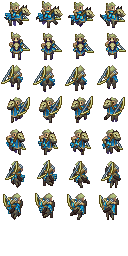
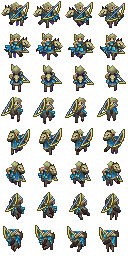
Fixed cropping bounds error that left out left-moving sprites from output

diff --git a/splitter.py b/splitter.py
@@ -70,7 +70,7 @@ CROP = {
         MOVE: {
             LARGE: {
                 SIZE : (256,256),
-                'start': (2,70),
+                'start': (2,38),
                 'sub'  : (32,32),
                 },
             
@@ -92,7 +92,7 @@ CROP = {
             
         MOVE: {
             SIZE : (256,256),
-            'start': (2,70),
+            'start': (2,38),
             'sub'  : (32,32),
             },            
         },
@@ -108,14 +108,16 @@ def composite(img, alpha=True):
     h1,w1,c1 = img.shape
 
     #Head layer
-    c1 = crop(img, (0,0), (w1//2,h1))         #Color
-    m1 = crop(img, (w1//2,0), (w1//2,h1))     #Mask
-    m1 = cv2.cvtColor(m1, cv2.COLOR_RGB2BGR)  #Fix color
-    g1 = cv2.cvtColor(m1, cv2.COLOR_BGR2GRAY) #Grayscale
+    c1 = crop(img, (0,0), (w1//2,h1))         #Colored layer
+    m1 = crop(img, (w1//2,0), (w1//2,h1))     #Masking layer
+    m1 = cv2.cvtColor(m1, cv2.COLOR_RGB2BGR)  #Fix mask's color format
+    g1 = cv2.cvtColor(m1, cv2.COLOR_BGR2GRAY) #Change mask to grayscale
 
     outputs = {}
     colors = [c for c in get_colors(g1) if c not in IGNORE]
+    
     for col in colors:
+        #Use grayscale bitwise masking
         m = make_mask(m1,col)
         n = apply_mask(c1,m)
 
@@ -124,6 +126,7 @@ def composite(img, alpha=True):
             bChannel, gChannel, rChannel = cv2.split(n)
             aChannel = np.ones(bChannel.shape, dtype=bChannel.dtype) * 255
             n = cv2.merge((bChannel,gChannel,rChannel,aChannel))
+            
         outputs[col] = n
 
     return outputs
@@ -137,7 +140,7 @@ def crop(img, start, size):
 
 
 def fix_paths(outdir, name, color):
-    #Fixes output directories
+    #Fixes output directories (rigid, I don't really care)
     if not os.path.isdir(outdir):
         os.makedirs(outdir)
 
@@ -170,7 +173,6 @@ def make_mask(im, thresh, maxval=255):
     return t
 
 
-#def main(fn, name, type, size=SMALL, alpha=True, outdir=OUTDIR):
 def main(headFile, bodyFile, size, name, offset=(0,0), alpha=True, outdir=OUTDIR):
     #Main processing method
     images = {}
